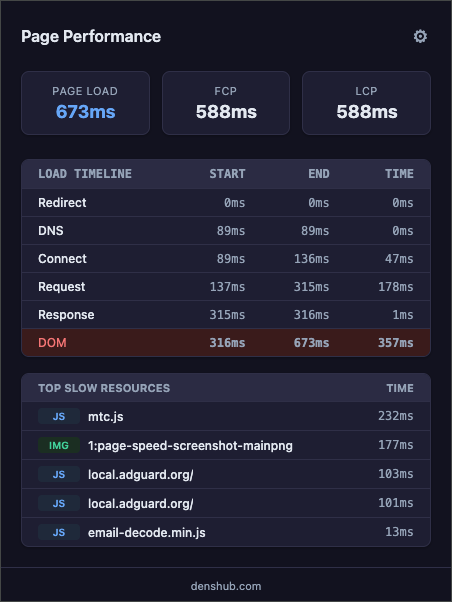
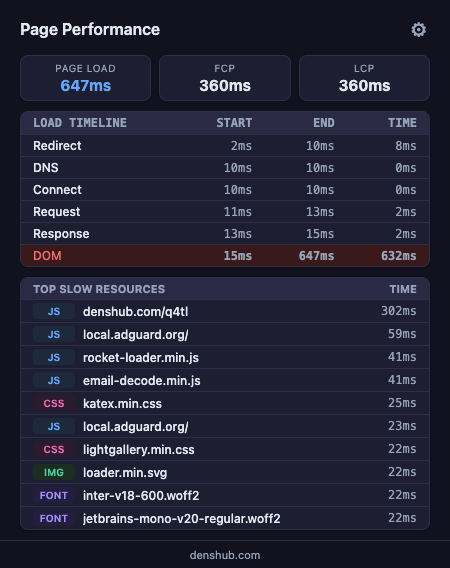
Update README gallery and refresh screenshots

Changed region(s): [[0.0, 0.0, 1.0, 1.0], [0.9022, 0.0299, 0.9644, 0.0898], [0.0, 0.0, 0.0311, 0.0299]]

diff --git a/README.md b/README.md
@@ -2,9 +2,9 @@
 
 A lightweight Chrome extension that measures and displays page load performance metrics for the active tab. Zero dependencies, Manifest V3, under 15 KB total.
 
-| Light | Dark | Settings |
-|:-----:|:----:|:--------:|
-| ![Light theme](./screenshots/page-speed-screenshot-main.png) | ![Dark theme](./screenshots/page-speed-screenshot-dark.png) | ![Settings](./screenshots/page-speed-screenshot-settings.png) |
+| Light | Dark | Settings (Light) | Settings (Dark) |
+|:-----:|:----:|:----------------:|:---------------:|
+| ![Light theme](./screenshots/page-speed-screenshot-light.png) | ![Dark theme](./screenshots/page-speed-screenshot-dark.png) | ![Settings light](./screenshots/page-speed-settings-light.png) | ![Settings dark](./screenshots/page-speed-settings-dark.png) |
 
 ## Features
 
